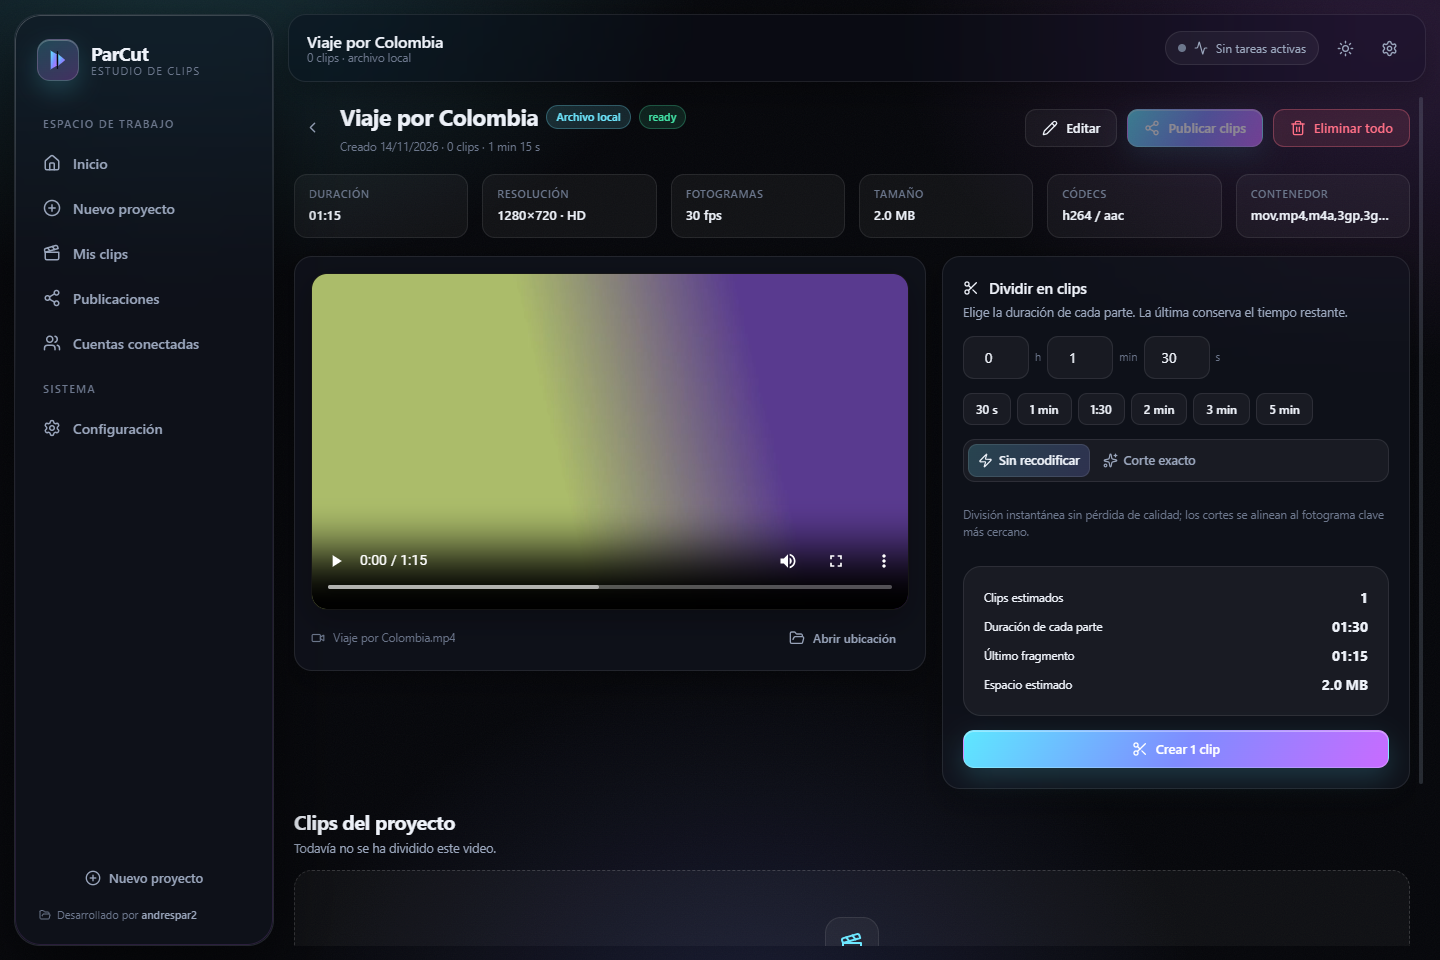
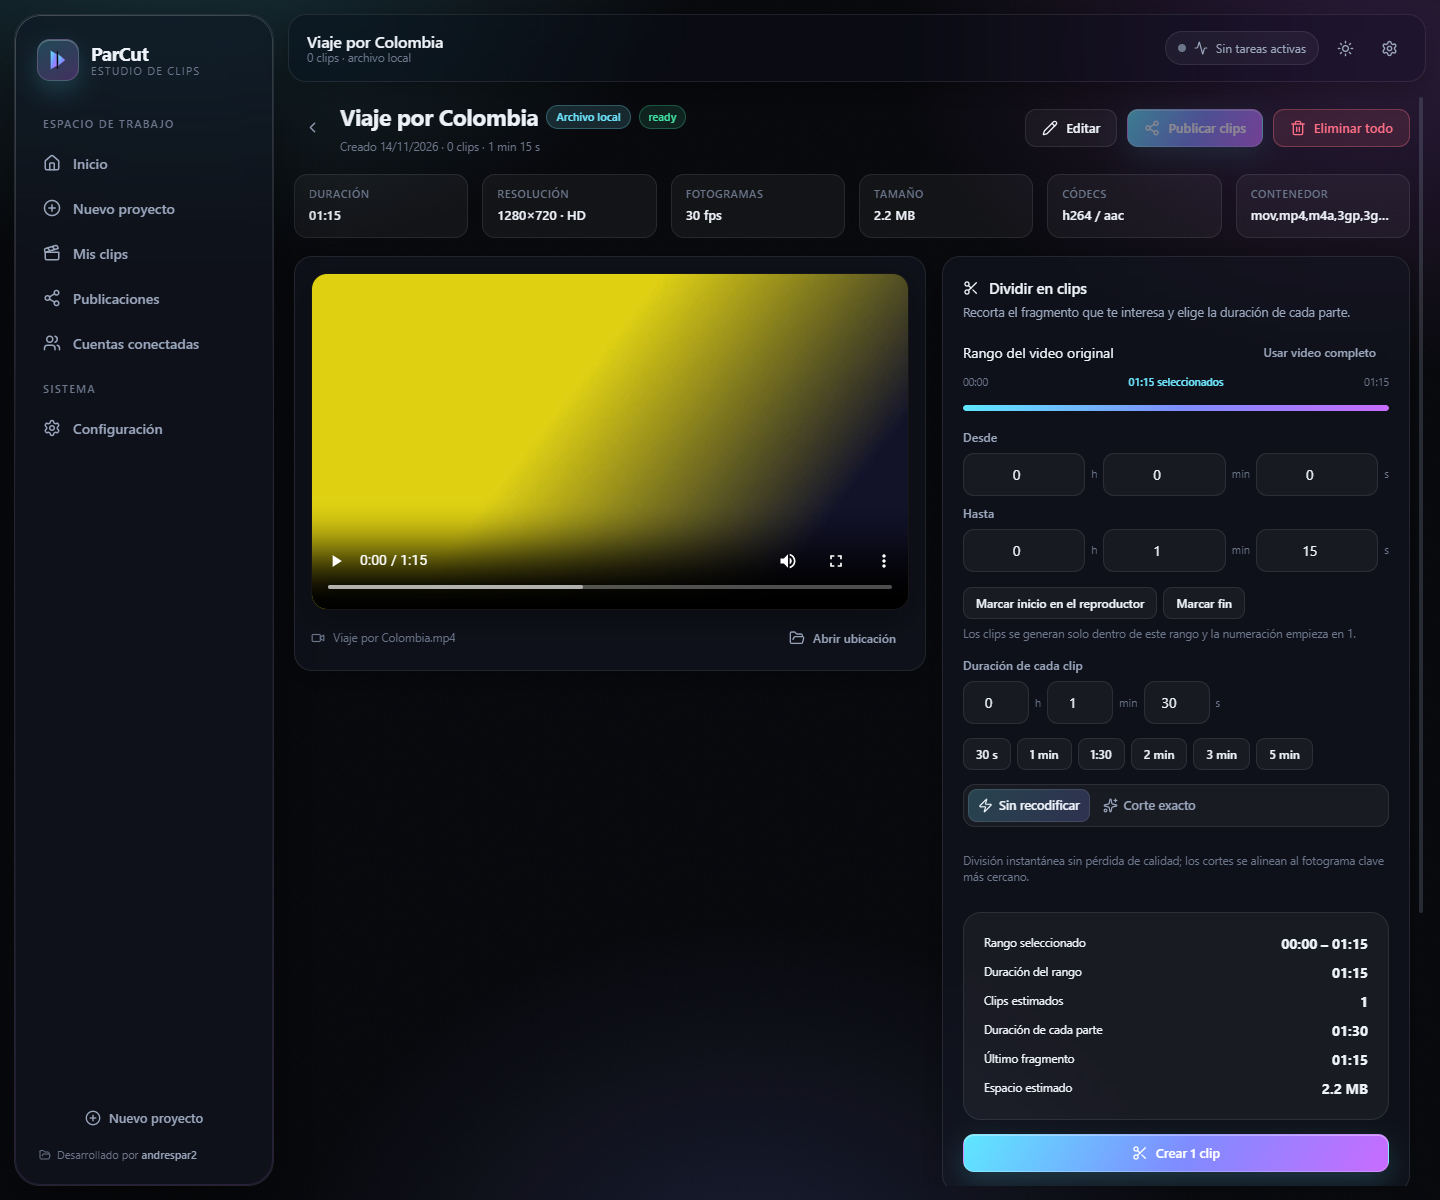
docs: document range selection workflow and update screenshots

diff --git a/README.md b/README.md
@@ -25,6 +25,11 @@ Desarrollado por **andrespar2**.
 |---|---|
 | ![Configuración](docs/screenshots/settings.png) | ![Configuración clara](docs/screenshots/settings-light.png) |
 
+**Recorte antes de dividir:** elige desde y hasta qué punto del video se generan los clips, con
+barra visual y marcas tomadas directamente del reproductor.
+
+![Recorte por rango](docs/screenshots/project-range.png)
+
 ---
 
 ## Funcionalidades
@@ -37,11 +42,16 @@ Desarrollado por **andrespar2**.
 - Reproductor integrado con controles, volumen y pantalla completa.
 
 ### División automática
+- **Recorte por rango**: elige el punto de inicio y de fin del video original; los clips se
+  generan solo dentro de ese fragmento y la numeración de partes empieza en 1.
+- Marcas de inicio y fin tomadas directamente del reproductor, barra visual del rango y opción
+  para volver al video completo.
 - Duración por partes en horas, minutos y segundos, con valores predeterminados.
 - Estimación previa: número de clips, duración del último fragmento y espacio aproximado.
 - Dos modos de corte:
-  - **Sin recodificar**: instantáneo y sin pérdida, alineado a keyframes.
-  - **Corte exacto**: recodificación H.264/AAC controlada (CRF 20) cuando hace falta precisión.
+  - **Sin recodificar**: instantáneo y sin pérdida, alineado a keyframes (video completo).
+  - **Corte exacto**: recodificación H.264/AAC controlada (CRF 20) para respetar al milisegundo
+    el inicio y el final del rango.
 - Miniaturas automáticas, progreso real, cancelación segura y limpieza de archivos parciales.
 - Clips ordenados por número de parte y persistidos aunque cierres la aplicación.
 
@@ -80,7 +90,7 @@ Desarrollado por **andrespar2**.
 
 ### Instalador (usuario final)
 
-1. Descarga `ParCut_1.0.0_x64-setup.exe` desde la sección de releases.
+1. Descarga `ParCut_1.1.0_x64-setup.exe` desde la sección de releases.
 2. Ejecuta el instalador (instalación por usuario, sin privilegios de administrador).
 3. Abre ParCut desde el menú Inicio o el acceso directo del escritorio.
 
@@ -108,8 +118,9 @@ Consulta [`docs/BUILD.md`](docs/BUILD.md) para el detalle del empaquetado y las 
 ## Cómo se usa
 
 1. **Nuevo proyecto**: pega un enlace autorizado o importa un archivo local.
-2. **Divide**: elige la duración de cada parte (por ejemplo, 1 min 30 s) y pulsa
-   «Crear N clips». El último clip conserva el tiempo restante.
+2. **Divide**: de forma opcional, marca el inicio y el final del fragmento que quieres usar
+   (puedes tomarlos del reproductor) y elige la duración de cada parte (por ejemplo, 1 min 30 s).
+   Pulsa «Crear N clips». El último clip conserva el tiempo restante.
 3. **Revisa**: en el proyecto o en **Mis clips** puedes reproducir, abrir la ubicación, copiar el
    nombre o eliminar cada parte.
 4. **Conecta cuentas**: configura tus credenciales de desarrollador y autoriza las cuentas en

diff --git a/docs/ARCHITECTURE.md b/docs/ARCHITECTURE.md
@@ -81,14 +81,16 @@ directorio.
 
 ## 4. Flujo de una división
 
-1. `split_plan(projectId, segundos)` calcula los cortes sin tocar el disco.
-2. `split_start(projectId, segundos, mode)`:
-   - valida rutas y duración;
+1. `split_plan(projectId, segundos, inicio, fin)` calcula los cortes sin tocar el disco.
+2. `split_start(projectId, segundos, mode, inicio, fin)`:
+   - valida rutas, duración y rango (mínimo 2 s, fin posterior al inicio);
+   - si el rango no es el video completo, exige `precise` (los keyframes impiden respetar
+     un inicio/fin arbitrario con `copy`);
    - limpia clips previos (archivos + filas);
    - registra una bandera de cancelación por proyecto;
    - ejecuta FFmpeg:
-     - `copy`: muxer `segment` con `-c copy` y tiempos basados en keyframes;
-     - `precise`: un proceso por parte con `-ss/-t` y codificador H.264 detectado;
+     - `copy`: muxer `segment` con `-c copy` para el video completo;
+     - `precise`: un proceso por parte con `-ss/-t` absolutos y el codificador H.264 detectado;
    - emite `split:progress` leyendo `out_time_us=` de `-progress pipe:1`;
    - mide cada archivo con FFprobe, crea su miniatura e inserta la fila;
    - guarda la duración elegida en el proyecto para futuras divisiones;
@@ -97,8 +99,9 @@ directorio.
      en estado `ready`.
 3. `split:done` o `split:error` cierran la tarea en la UI.
 
-El último clip absorbe el resto; si el resto es menor que 2 s, se fusiona con el anterior para
-evitar fragmentos inútiles.
+El último clip absorbe el resto del rango; si el resto es menor que 2 s, se fusiona con el
+anterior para evitar fragmentos inútiles. La numeración de partes empieza en 1 dentro del
+fragmento seleccionado y el tamaño estimado se calcula proporcionalmente al rango.
 
 ## 5. Cola de publicaciones
 
@@ -149,11 +152,11 @@ El frontend recibe `queue:changed` (instantánea), `queue:progress` (porcentaje 
 |---|---|---|
 | Typecheck + build frontend | `npm run build` | OK |
 | Unitarias frontend | `npm test` | 10/10 |
-| Unitarias backend | `cargo test` | 36/36 |
+| Unitarias backend | `cargo test` | 39/39 |
 | Compilación | `cargo check` | Sin avisos |
-| Release + instalador | `npm run tauri:build` | `parcut.exe` 16,4 MB · instalador 80,50 MiB |
+| Release + instalador | `npm run tauri:build` | `parcut.exe` 16,4 MB · instalador 1.1.0 (80,5 MiB) |
 | Instalación / desinstalación | NSIS `/S` y `uninstall.exe /S` | OK |
-| E2E release (importar, dividir, reproducir, migrar, eliminar) | UI + CDP | OK |
+| E2E release (importar, dividir, recortar, reproducir, migrar, eliminar) | UI + CDP | OK |
 | Metadatos de YouTube | `download_metadata` | OK (8 calidades) |
 | Publicación real | requiere credenciales | Pendiente externo |
 

diff --git a/CHANGELOG.md b/CHANGELOG.md
@@ -4,6 +4,28 @@ Todos los cambios relevantes de ParCut se documentan aquí.
 El formato sigue [Keep a Changelog](https://keepachangelog.com/es-ES/1.1.0/) y
 [Semantic Versioning](https://semver.org/lang/es/).
 
+## [1.1.0] — 2026-11-14
+
+### Añadido
+- **Recorte por rango antes de dividir**: permite elegir desde y hasta qué punto del video
+  original se generan los clips, con campos de horas/minutos/segundos, barra visual del rango y
+  botones para marcar el inicio y el fin desde el reproductor.
+- Opción «Usar video completo» para restablecer el rango.
+- La estimación muestra el rango seleccionado, su duración, los clips resultantes y el espacio
+  aproximado solo del fragmento elegido.
+- La numeración de las partes empieza en 1 dentro del rango recortado.
+
+### Cambiado
+- Los rangos personalizados usan siempre **corte exacto** para respetar al milisegundo el inicio
+  y el final. «Sin recodificar» queda disponible para dividir el video completo, donde conserva
+  la calidad original y la velocidad.
+- La duración elegida se guarda en el proyecto y se conserva al volver a dividir.
+- El modo y los campos de duración ya no se reinician tras cada división.
+
+### Corregido
+- La portada del proyecto se conserva al volver a dividir.
+- El indicador de tareas se limpia correctamente al terminar una división.
+
 ## [1.0.0] — 2026-11-13
 
 ### Añadido

diff --git a/docs/BUILD.md b/docs/BUILD.md
@@ -69,7 +69,7 @@ npm run tauri:build
 Salidas:
 
 - Ejecutable: `src-tauri/target/release/parcut.exe`
-- Instalador NSIS: `src-tauri/target/release/bundle/nsis/ParCut_1.0.0_x64-setup.exe`
+- Instalador NSIS: `src-tauri/target/release/bundle/nsis/ParCut_1.1.0_x64-setup.exe`
 
 El instalador es **por usuario** (`installMode: currentUser`), no requiere UAC, crea el acceso
 directo y registra la desinstalación. Los recursos empaquetados (FFmpeg, FFprobe, yt-dlp y sus
@@ -139,10 +139,10 @@ herramienta de cumplimiento.
 
 ## 8. Verificación del ejecutable
 
-Resultados de la compilación verificada:
+Resultados de la compilación verificada (v1.1.0):
 
 - `parcut.exe`: 16,4 MB.
-- Instalador NSIS: 80,50 MiB.
+- Instalador NSIS: 80,5 MiB.
 - Instalación silenciosa con `/S /D=<carpeta>`: correcta.
 - El ejecutable instalado detectó FFmpeg, FFprobe y yt-dlp desde su carpeta de instalación.
 - Desinstalación con `uninstall.exe /S`: eliminó la carpeta de instalación.
